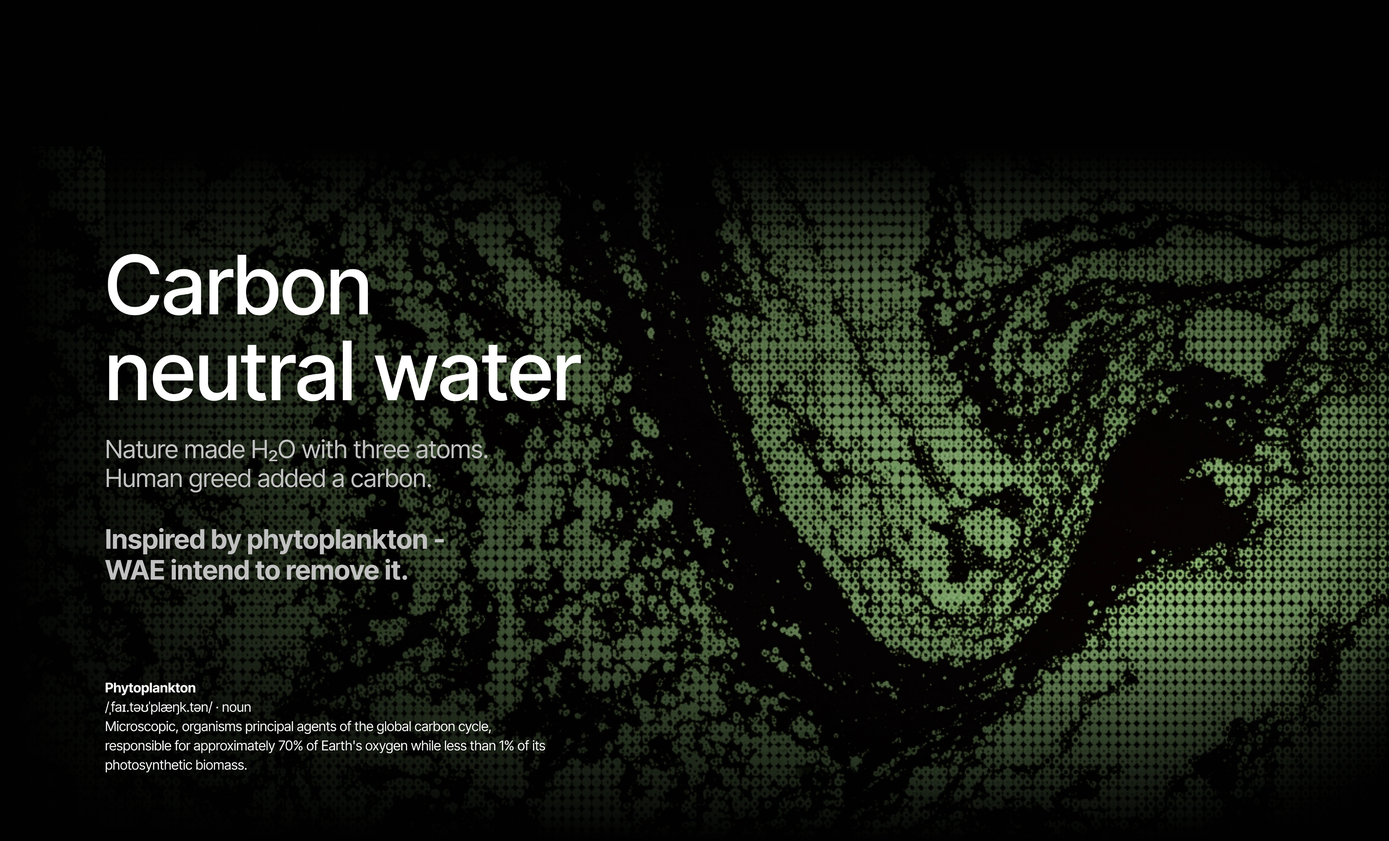
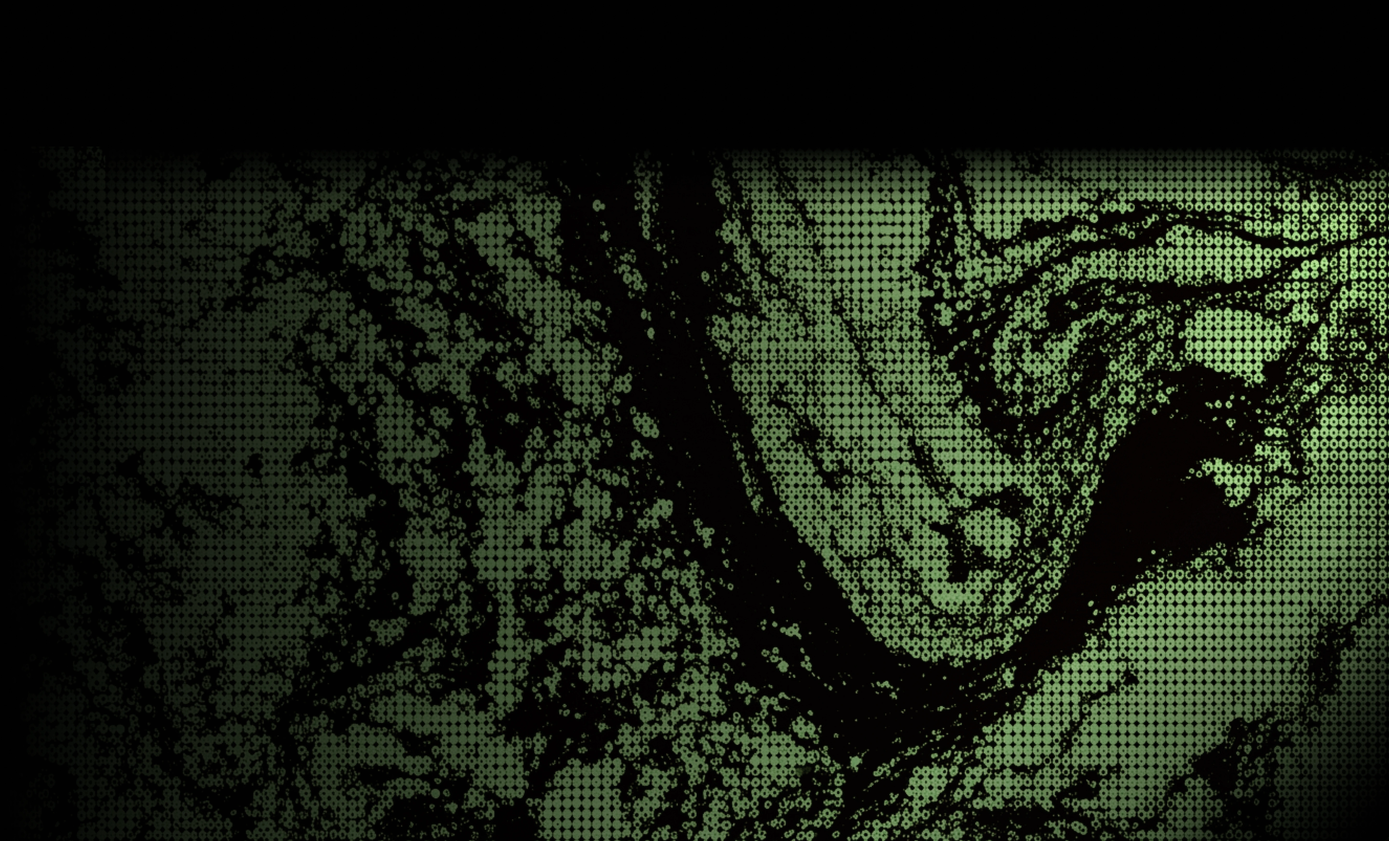
feat(hero): update slides 2-4 with Carbon neutral water, 1% for water, Blugrids assets and responsive text overlays

diff --git a/app/page.tsx b/app/page.tsx
@@ -371,6 +371,20 @@ interface HeroBannerSlide {
   id: number
   isFirst?: boolean
   image?: string
+  headline?: string
+  subhead?: string
+  highlight?: string
+  bodyCopy?: string
+  legend?: { label: string; color: string }[]
+  footnote?: {
+    lines: string[]
+    hashtag?: string
+  }
+  definition?: {
+    word: string
+    phonetic: string
+    meaning: string
+  }
 }
 
 const HERO_SLIDES: HeroBannerSlide[] = [
@@ -381,14 +395,37 @@ const HERO_SLIDES: HeroBannerSlide[] = [
   {
     id: 2,
     image: "/hero/hero-slide-2.webp",
+    headline: "Carbon\nneutral water",
+    subhead: "Nature made H₂O with three atoms.\nHuman greed added a carbon.",
+    highlight: "Inspired by phytoplankton -\nWAE intend to remove it.",
+    definition: {
+      word: "Phytoplankton",
+      phonetic: "/ˌfaɪ.təʊˈplæŋk.tən/ · noun",
+      meaning:
+        "Microscopic, organisms principal agents of the global carbon cycle, responsible for approximately 70% of Earth's oxygen while less than 1% of its photosynthetic biomass.",
+    },
   },
   {
     id: 3,
     image: "/hero/hero-slide-3.webp",
+    headline: "1% for water",
+    subhead: "1% of Net Sales\n100% of Our Commitment",
+    bodyCopy: "For water resilience, restoration\nand access for all",
+    legend: [
+      { label: "Secure", color: "#5E7C99" },
+      { label: "Exhausted", color: "#6E6E6E" },
+      { label: "Unreachable", color: "#E5E5E5" },
+    ],
+    footnote: {
+      lines: ["Not charity.", "Not CSR", "Responsibility"],
+      hashtag: "#GiveBackToWater",
+    },
   },
   {
     id: 4,
     image: "/hero/hero-slide-4.webp",
+    headline: "Blugrids",
+    subhead: "One intelligent Platform -\nInfinite water Intelligence",
   },
 ]
 
@@ -672,15 +709,232 @@ export default function Home() {
                   </div>
                 </>
               ) : (
-                <div className="relative w-full h-full bg-black flex items-center justify-center">
+                <div className="relative w-full h-full bg-black overflow-hidden">
+                  {/* Background image stretches full screen width; may overflow height while text/indicators stay in screen */}
                   <Image
                     src={HERO_SLIDES[currentSlide].image!}
-                    alt={`Hero Banner ${currentSlide + 1}`}
+                    alt={HERO_SLIDES[currentSlide].headline?.replace(/\n/g, " ") || `Hero Banner ${currentSlide + 1}`}
                     fill
                     priority
                     unoptimized
-                    className="object-contain object-center"
+                    className={`object-cover ${
+                      HERO_SLIDES[currentSlide].id === 4
+                        ? "object-[72%_center] md:object-top"
+                        : "object-center md:object-top"
+                    }`}
                   />
+
+                  {/* Subtle mobile gradient for text legibility */}
+                  <div
+                    className="md:hidden absolute inset-0 pointer-events-none"
+                    style={{
+                      background:
+                        "linear-gradient(to right, rgba(0,0,0,0.82) 0%, rgba(0,0,0,0.48) 55%, rgba(0,0,0,0.12) 100%)",
+                    }}
+                  />
+
+                  {/* Slide-specific Legend (Slide 3 Map Legend) */}
+                  {HERO_SLIDES[currentSlide].legend && (
+                    <div
+                      className="hidden md:flex flex-col items-end gap-1.5 absolute top-[clamp(100px,10.5vw,160px)] right-[24px] md:right-[7.5vw] z-[4] text-[clamp(11px,0.83vw,13px)] text-[#AEAEAE]"
+                      style={{ fontFamily: "'Manrope', sans-serif" }}
+                    >
+                      {HERO_SLIDES[currentSlide].legend!.map((item, i) => (
+                        <div key={i} className="flex items-center gap-2.5">
+                          <span>{item.label}</span>
+                          <span
+                            className="w-2.5 h-2.5 rounded-full inline-block flex-shrink-0"
+                            style={{ backgroundColor: item.color }}
+                          />
+                        </div>
+                      ))}
+                    </div>
+                  )}
+
+                  {/* Slide Content Overlay - aligned left with header logo (7.5vw) and fitted within viewport */}
+                  <div className="absolute inset-0 w-full h-full z-[3] pointer-events-none flex flex-col justify-center pt-[84px] sm:pt-[96px] md:pt-[clamp(90px,8vw,130px)] pb-[48px] md:pb-[clamp(56px,6.5svh,76px)]">
+                    <div className={`${containerClass} flex-1 flex flex-col justify-center`}>
+                      <div
+                        className={
+                          HERO_SLIDES[currentSlide].id === 4
+                            ? "max-w-[92vw] md:max-w-[52vw]"
+                            : "max-w-[92vw] md:max-w-[56vw]"
+                        }
+                      >
+                        {HERO_SLIDES[currentSlide].headline && (
+                          <h1
+                            className="whitespace-pre-line text-white"
+                            style={{
+                              fontFamily: "'Inter Tight', sans-serif",
+                              fontWeight: 500,
+                              fontStyle: "normal",
+                              fontSize: "clamp(32px, min(5.9vw, 10svh), 85px)",
+                              lineHeight: "105%",
+                              letterSpacing: "0%",
+                              verticalAlign: "middle",
+                              margin: 0,
+                            }}
+                          >
+                            {HERO_SLIDES[currentSlide].headline}
+                          </h1>
+                        )}
+
+                        {HERO_SLIDES[currentSlide].subhead && (
+                          <p
+                            className="whitespace-pre-line mt-[clamp(12px,min(1.8vw,2.6svh),26px)]"
+                            style={{
+                              fontFamily: "'Inter Tight', sans-serif",
+                              fontWeight: HERO_SLIDES[currentSlide].id === 3 ? 500 : 400,
+                              fontStyle: "normal",
+                              fontSize:
+                                HERO_SLIDES[currentSlide].id === 4
+                                  ? "clamp(18px, min(3.05vw, 4.8svh), 44px)"
+                                  : HERO_SLIDES[currentSlide].id === 3
+                                    ? "clamp(16px, min(2.36vw, 3.8svh), 34px)"
+                                    : "clamp(15px, min(1.81vw, 3.2svh), 26px)",
+                              lineHeight: "115%",
+                              letterSpacing: "0%",
+                              verticalAlign: "middle",
+                              color: "#B5B5B5",
+                              marginBottom: 0,
+                            }}
+                          >
+                            {HERO_SLIDES[currentSlide].subhead}
+                          </p>
+                        )}
+
+                        {HERO_SLIDES[currentSlide].highlight && (
+                          <p
+                            className="whitespace-pre-line mt-[clamp(12px,min(1.67vw,2.5svh),24px)]"
+                            style={{
+                              fontFamily: "'Inter Tight', sans-serif",
+                              fontWeight: 700,
+                              fontStyle: "normal",
+                              fontSize: "clamp(16px, min(1.94vw, 3.4svh), 28px)",
+                              lineHeight: "115%",
+                              letterSpacing: "0%",
+                              verticalAlign: "middle",
+                              color: "#C5C5C5",
+                              marginBottom: 0,
+                            }}
+                          >
+                            {HERO_SLIDES[currentSlide].highlight}
+                          </p>
+                        )}
+
+                        {HERO_SLIDES[currentSlide].bodyCopy && (
+                          <p
+                            className="whitespace-pre-line mt-[clamp(12px,min(1.67vw,2.5svh),24px)]"
+                            style={{
+                              fontFamily: "'Inter Tight', sans-serif",
+                              fontWeight: 400,
+                              fontStyle: "normal",
+                              fontSize: "clamp(15px, min(1.81vw, 3.2svh), 26px)",
+                              lineHeight: "120%",
+                              letterSpacing: "0%",
+                              verticalAlign: "middle",
+                              color: "#B5B5B5",
+                              marginBottom: 0,
+                            }}
+                          >
+                            {HERO_SLIDES[currentSlide].bodyCopy}
+                          </p>
+                        )}
+
+                        {HERO_SLIDES[currentSlide].definition && (
+                          <div className="mt-[clamp(20px,min(4.31vw,6.8svh),62px)] max-w-[clamp(280px,34vw,480px)]">
+                            <p
+                              style={{
+                                fontFamily: "'Inter Tight', sans-serif",
+                                fontWeight: 700,
+                                fontStyle: "normal",
+                                fontSize: "clamp(12px, 0.97vw, 14px)",
+                                lineHeight: "140%",
+                                letterSpacing: "0%",
+                                verticalAlign: "middle",
+                                color: "#FFFFFF",
+                                margin: 0,
+                              }}
+                            >
+                              {HERO_SLIDES[currentSlide].definition!.word}
+                            </p>
+                            <p
+                              style={{
+                                fontFamily: "'Inter Tight', sans-serif",
+                                fontWeight: 400,
+                                fontStyle: "normal",
+                                fontSize: "clamp(12px, 0.97vw, 14px)",
+                                lineHeight: "140%",
+                                letterSpacing: "0%",
+                                verticalAlign: "middle",
+                                color: "#C1C1C1",
+                                margin: 0,
+                              }}
+                            >
+                              {HERO_SLIDES[currentSlide].definition!.phonetic}
+                            </p>
+                            <p
+                              style={{
+                                fontFamily: "'Inter Tight', sans-serif",
+                                fontWeight: 400,
+                                fontStyle: "normal",
+                                fontSize: "clamp(12px, 0.97vw, 14px)",
+                                lineHeight: "140%",
+                                letterSpacing: "0%",
+                                verticalAlign: "middle",
+                                color: "#C1C1C1",
+                                margin: 0,
+                              }}
+                            >
+                              {HERO_SLIDES[currentSlide].definition!.meaning}
+                            </p>
+                          </div>
+                        )}
+
+                        {HERO_SLIDES[currentSlide].footnote && (
+                          <div className="mt-[clamp(20px,min(4.31vw,6.8svh),62px)] max-w-[clamp(260px,28vw,380px)]">
+                            <div
+                              style={{
+                                fontFamily: "'Inter Tight', sans-serif",
+                                fontWeight: 400,
+                                fontStyle: "normal",
+                                fontSize: "clamp(12px, 0.97vw, 14px)",
+                                lineHeight: "140%",
+                                letterSpacing: "0%",
+                                color: "#B5B5B5",
+                              }}
+                            >
+                              {HERO_SLIDES[currentSlide].footnote!.lines.map((line, i) => (
+                                <p key={i} style={{ margin: 0 }}>
+                                  {line}
+                                </p>
+                              ))}
+                            </div>
+                            {HERO_SLIDES[currentSlide].footnote!.hashtag && (
+                              <p
+                                className="mt-3"
+                                style={{
+                                  fontFamily: "'Inter Tight', sans-serif",
+                                  fontWeight: 700,
+                                  fontStyle: "normal",
+                                  fontSize: "clamp(12px, 0.97vw, 14px)",
+                                  lineHeight: "140%",
+                                  letterSpacing: "0%",
+                                  color: "#FFFFFF",
+                                  marginBottom: 0,
+                                }}
+                              >
+                                {HERO_SLIDES[currentSlide].footnote!.hashtag}
+                              </p>
+                            )}
+                          </div>
+                        )}
+                      </div>
+                    </div>
+
+                    {/* Mobile divider at the bottom of the hero section */}
+                    <div className="md:hidden absolute bottom-0 left-0 right-0 border-b border-[#FFFFFF4D] z-[5]" />
+                  </div>
                 </div>
               )}
             </motion.div>
